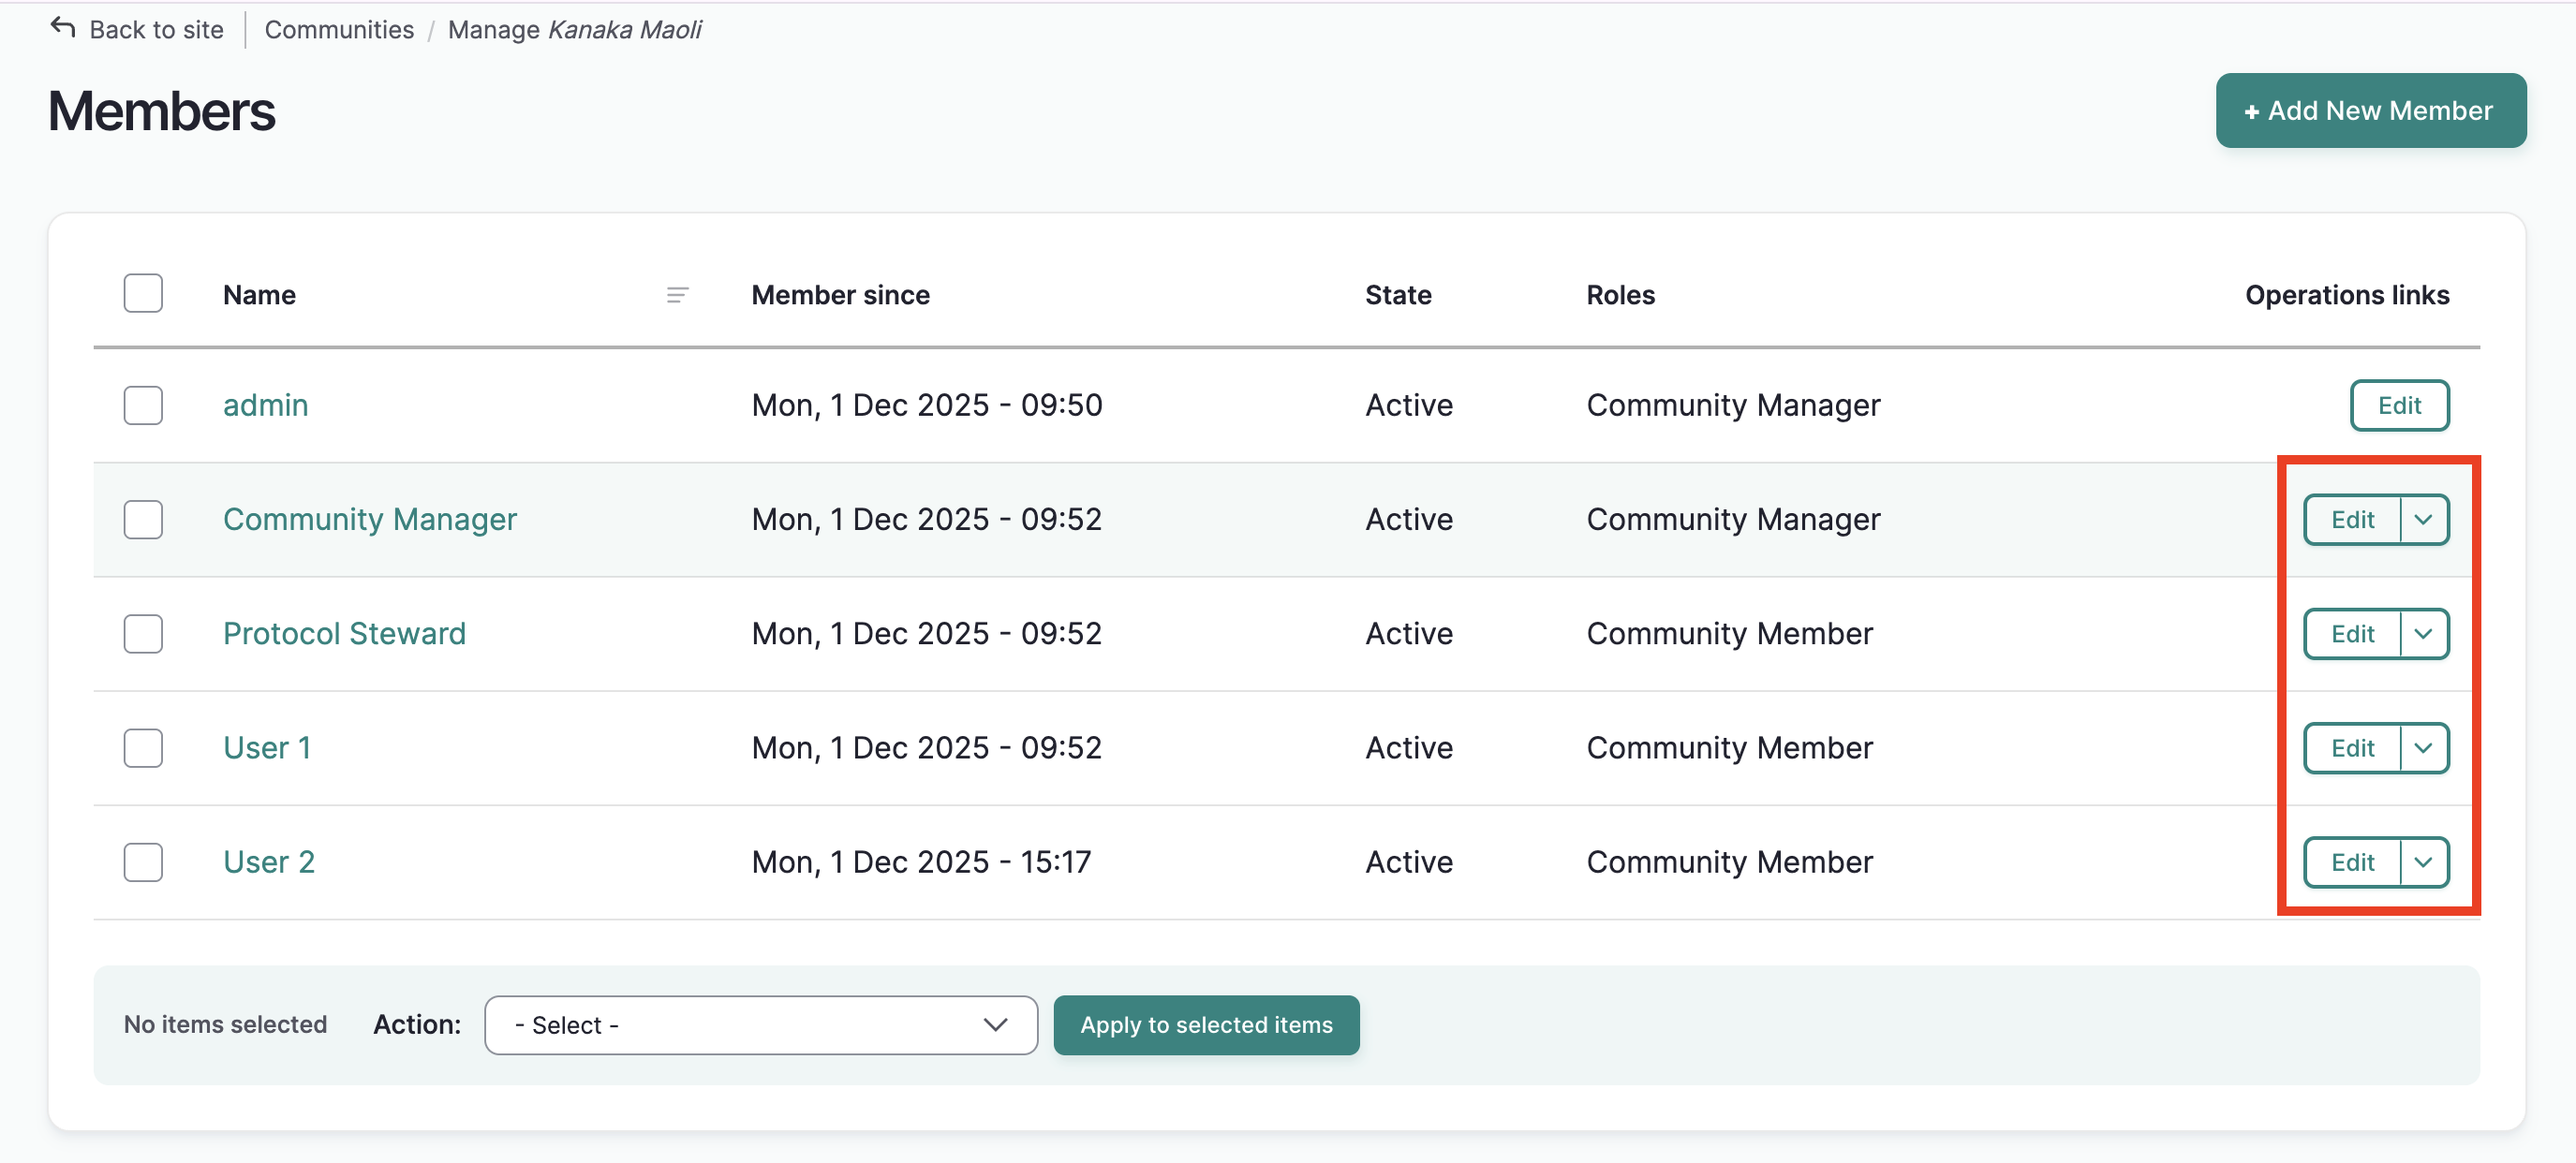
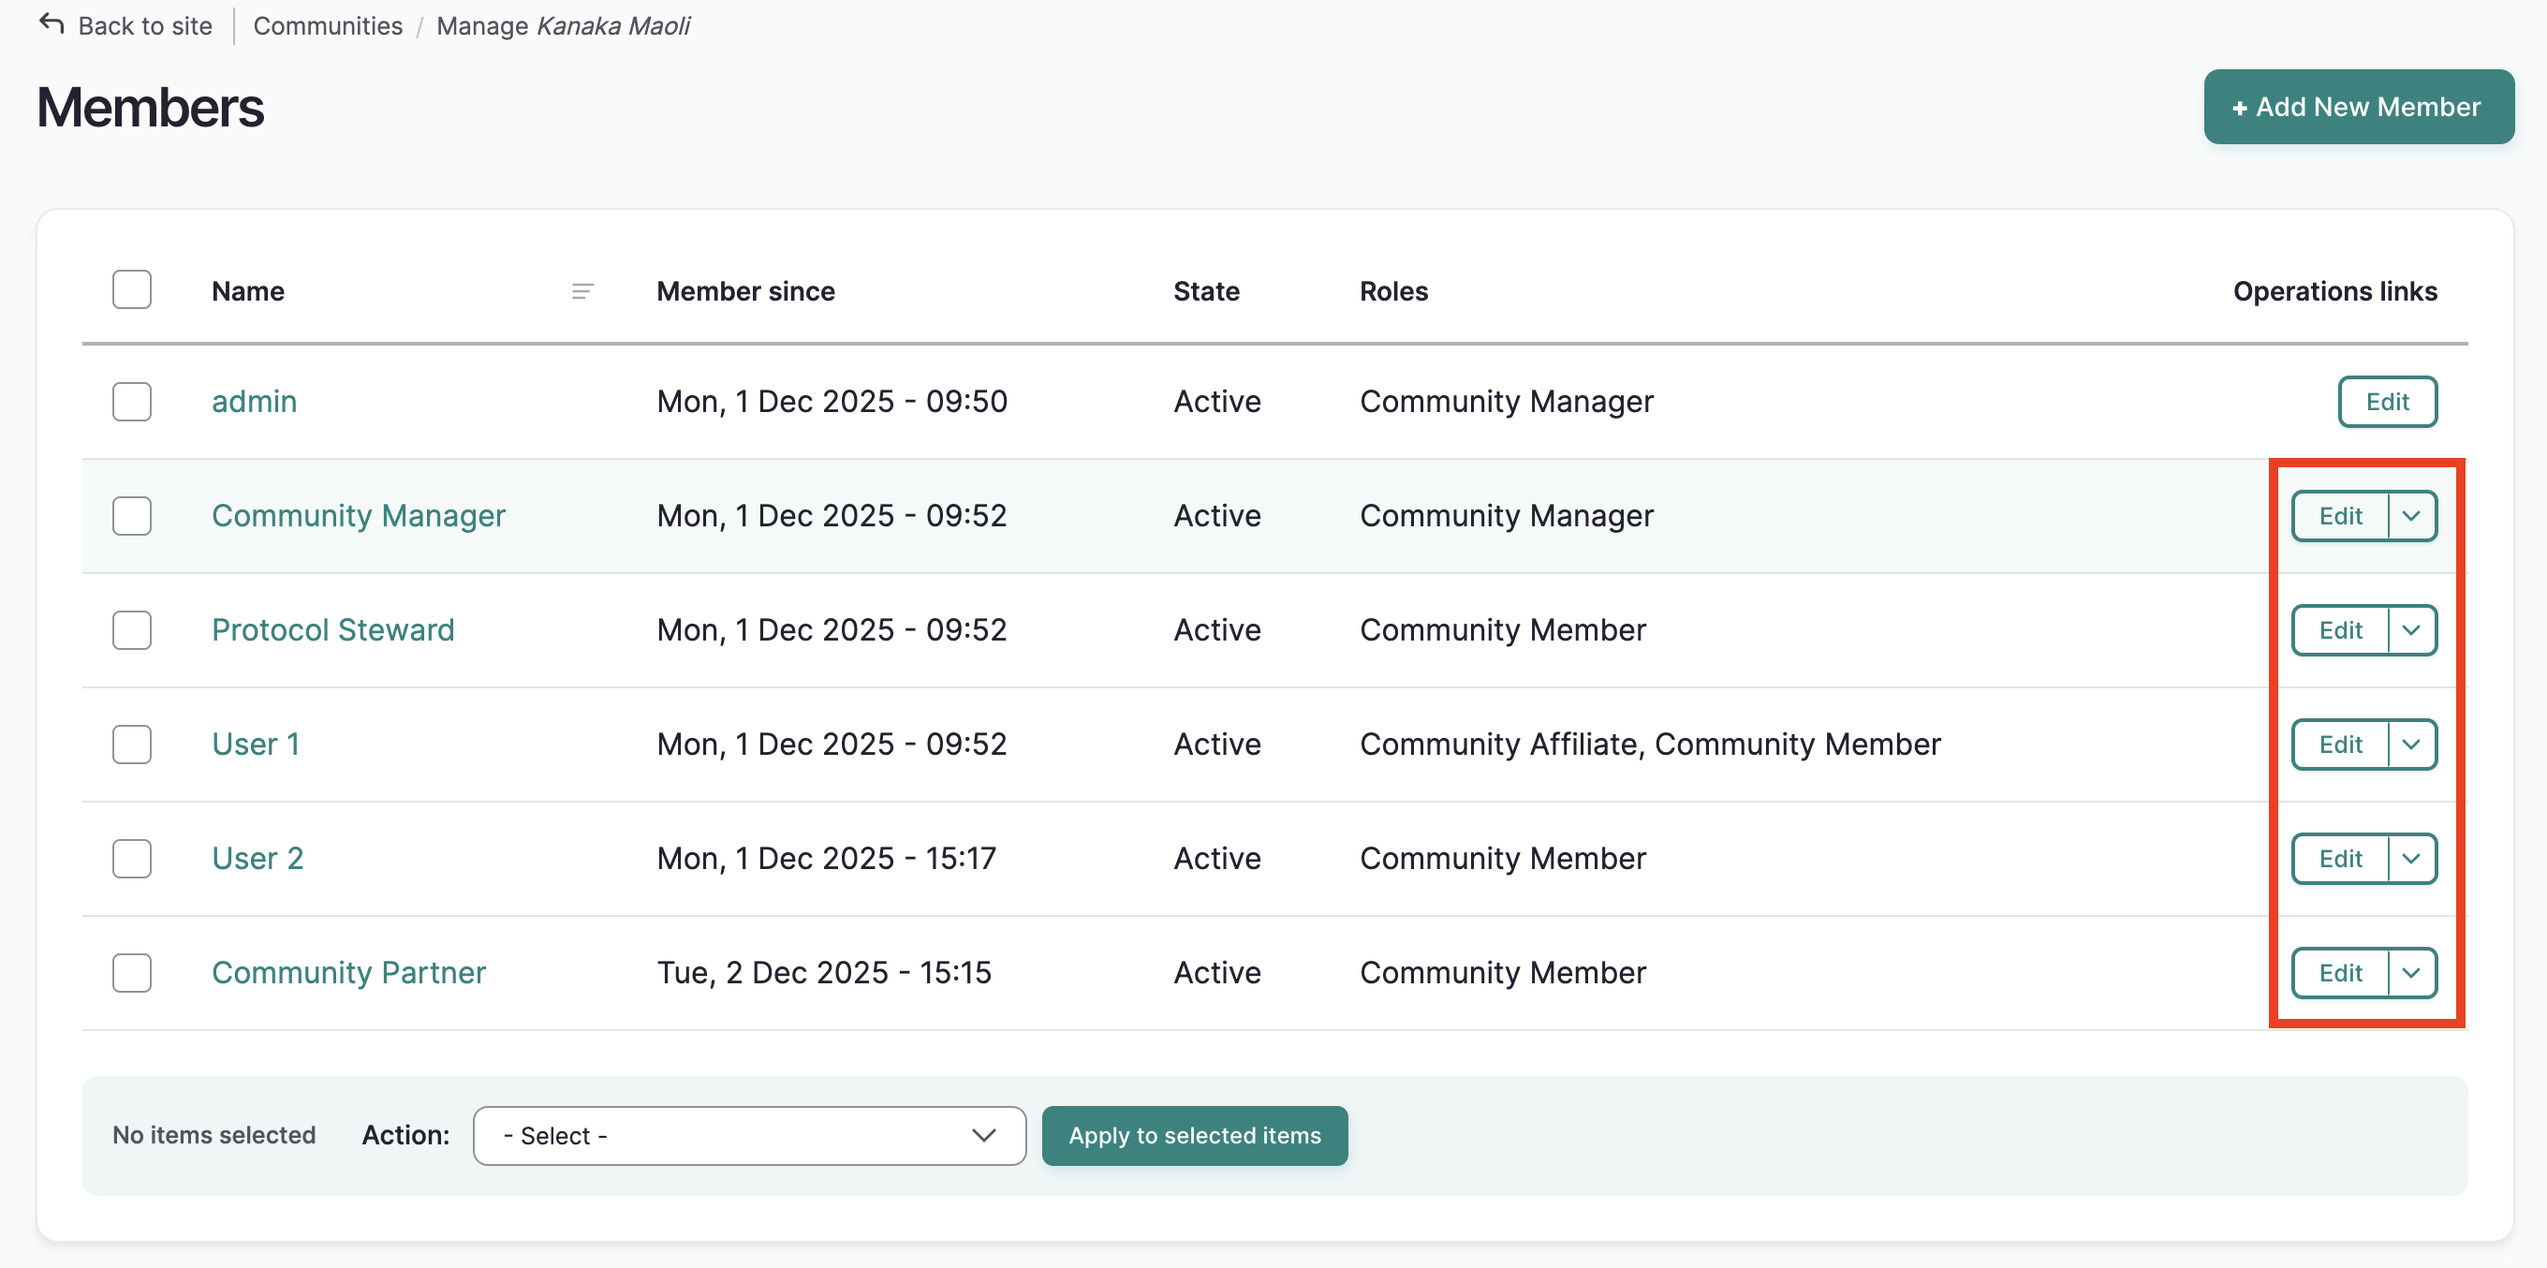
Requested changes
I added more detail to step 4 of the bulk management section.

Since the "add roles" action isn't displaying the right theme, there isn't a way to bulk remove roles at this time. "Remove roles" used to be in the menu but it isn't anymore, so I removed that section, assuming that once the correct theme is in place that'll be resolved.

diff --git a/docs/3Cs/ManageCommunityMembershipAndRoles.md b/docs/3Cs/ManageCommunityMembershipAndRoles.md
@@ -10,7 +10,7 @@ tags:
 !!! roles "User role"
     Community manager
 
-Community managers are responsible for adding new members, assigning community roles and changing the membership state. This article provides instruction for managing existing members both individually and in bulk. For details on adding new members as a community manager, see [Create User Accounts](/docs/users/creating-account.md)
+Community managers are responsible for adding and managing community members. This article provides instruction for managing existing members both individually and in bulk. For details on adding new members as a community manager, see [Create User Accounts](/docs/users/creating-account.md)
 
 ## Manage members page
 
@@ -38,11 +38,11 @@ There are three community roles: Community manager, community member, and commun
 
     For more on user roles, see [User Roles](../users/user-roles.md)
 
-There are three membership states: Active, pending and blocked. Please note that membership states are a stock Drupal operation that may change in future development.
+There are three membership states: Active, pending and blocked. Please note that these are stock Drupal settings and may be revised in a future update.
 
- - Active memberships have permission to view the community page and any protocols to which they've been added.
- - Pending memberships are for users who have requested membership in the community and have not yet been approved by the community manager.
- - Blocked memberships are not allowed access to the community page.
+- Active members can act as normal, based on their user role and permissions.
+- Pending members cannot view the community page or take community related actions until they are changed to active members. This may be useful if one community manager enrols a user and asks a second community manager to review and approve their membership.
+- Blocked members cannot view the protocol page or take community related actions until they are changed back to active members. This may be useful if a user takes approved actions and their account should be temporarily suspended within this community (accounts can also be blocked at the site level by a Mukurtu Manager).
 
 ## Add a new member
 
@@ -59,7 +59,7 @@ There are three membership states: Active, pending and blocked. Please note that
 
 3) Select their role(s).
 
-4) Select their membership state. 
+4) Select their membership state. In most cases, the default "active" state is correct.
 
 5) Select "Save".
 
@@ -70,23 +70,25 @@ There are three membership states: Active, pending and blocked. Please note that
 ![Blank new member form and with a success message displayed in green](../_embeds/community-membership-05.png)
 
 ## Manage members individually
-To manage users individually, from the community members page, select "edit" on the far right of their row. A membership edit form will display.
+1) To manage users individually, from the community members page, select "edit" on the far right of their row. 
 
 ![Screenshot of membership list with red box around edit](../_embeds/community-membership-07.png)
 
-1) To edit their role, uncheck the boxes of any roles you wish to remove. 
+2) A membership edit form will display.
 
-2) Check the boxes of the roles you wish to add. 
+![The membership edit form for the user, Community Partner. The community member role is selected.](../_embeds/community-membership-15.png)
 
-3) To edit their state, select the correct state (active, pending or blocked)
+3) Deselect the role you wish to remove, and select the role you wish to assign. While it's possible to assign more than one role to a community member, users will almost always have one role. 
 
-4) Select save. The form will reload with a success message.
+![The membership edit form for the user, Community Partner. The community member role is deselected, and the community affiliate role is selected instead.](../_embeds/community-membership-16.png)
 
-![Membership edit form with save button highlighted](../_embeds/community-membership-08.png)
+4) To edit their state, select the correct state (active, pending or blocked)
 
-5) The form will reload with the updated settings and a success message will be displayed.
+5) Select save. You will be returned to the manage members page and a success message will display.
 
-![Screenshot of success message](../_embeds/community-membership-09.png)
+![Membership edit form with save button highlighted](../_embeds/community-membership-16.png)
+
+![The manage members page with a success message displayed](../_embeds/community-membership-17.png)
 
 ## Manage multiple members
 
@@ -117,26 +119,42 @@ You can manage multiple members by using the action menu. Use this menu to:
 
 ![Manage members page with checkboxes beside User 1 and User 2. An action is selected from the aciton menu. Apply to selected items button is highlighted in red.](../_embeds/community-membership-12.png)
 
-4) Some actions will immediately display a success message once they are applied. Others will require an additional step. See below for more detail on each action menu item:  
+4) You will receive different results depending on the action item you select. Below are descriptions of the results of applying steps 1-3 above for each action item, and any additional instructions as needed.
 
-- Add roles to the selected membership(s)
-    1. select the role you would like to add
-    2. select **Submit**
-    3. a success message is displayed
+### Add roles to the selected membership(s)
+1. Complete steps 1-3.
+![Manage members page with action item "add roles to the selected membership" highlighted](../_embeds/community-membership-18.png)
+2. Uncheck the role you wish to remove. Check the role you wish to assign and select **Submit**.
+![Role selection form with community affiliate role checked.](../_embeds/placeholderscreenshot.png)
+3. The manage members page will re-load with a sucess message. User roles for each selected member will be updated.
+![Manage members page with updates highlighted and a success message displayed](../_embeds/placeholderscreenshot.png)
 
-- Approve the pending membership(s) 
-    - a success message is displayed
+### Approve the pending membership(s)
+1. Complete steps 1-3.
+    ![Manage members page with action item "approve the pending memberships" highlighted](../_embeds/community-membership-20.png)
 
-- Block the selected membership(s)
-    - a success message is displayed
+2. The manage members page will re-load with a success message. The selected users state will change from "Pending" to "Active"
+    ![Manage members page with updates highlighted and a success message displayed](../_embeds/community-membership-24.png)
 
-- Delete the selected membership(s)
-    - a success message is displayed
+### Block the selected membership(s)
+1. Complete steps 1-3.
+    ![Manage members page with action item "block the selected membersihps" highlighted](../_embeds/community-membership-21.png)
 
-- Remove roles from the selected membership(s)
-    1. select the role(s) you wish to remove 
-    2. select submit
-    3. a success message is displayed
+2. The manage members page will re-load with a success message. The selected users will be blocked.
 
-- Unblock the selected membership(s) 
-    - a success message is displayed
+    ![Manage members page with the selected users blocked and a success message displayed](../_embeds/community-membership-25.png)
+
+### Delete the selected membership(s)
+1. Complete steps 1-3.
+
+    ![Manage members page with action item "delete the selected memberships" highlighted](../_embeds/community-membership-22.png)
+
+2. The manage members page will re-load with a success message. The selected users will be deleted.
+    ![Manage members page with the selected users deleted and a success message displayed](../_embeds/community-membership-27.png)
+
+### Unblock the selected membership(s) 
+1. Complete steps 1-3
+    ![Manage members page with action item "unblock the selected memberships" highlighted](../_embeds/community-membership-28.png)
+
+2. The manage members page will re-load with a success message. The selected users will be unblocked.
+    ![Manage members page with the selected users unblocked and a success message displayed](../_embeds/community-membership-26.png)
